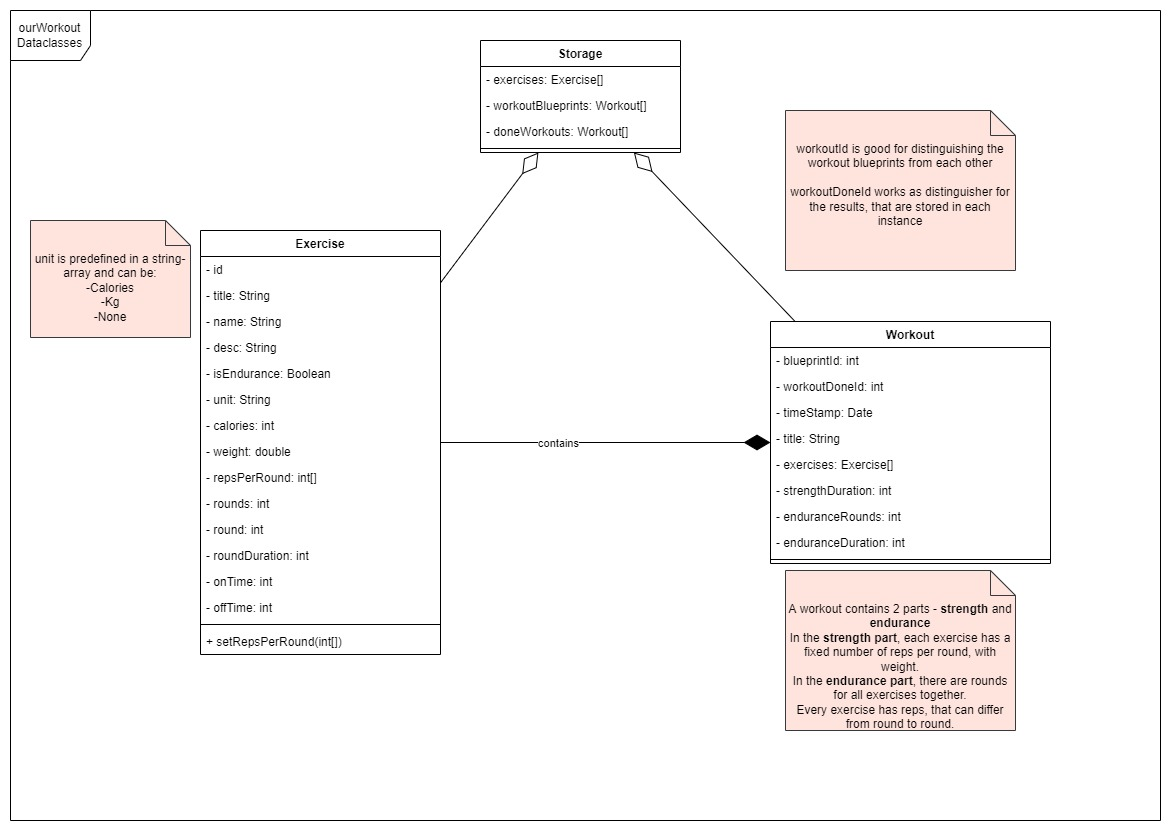
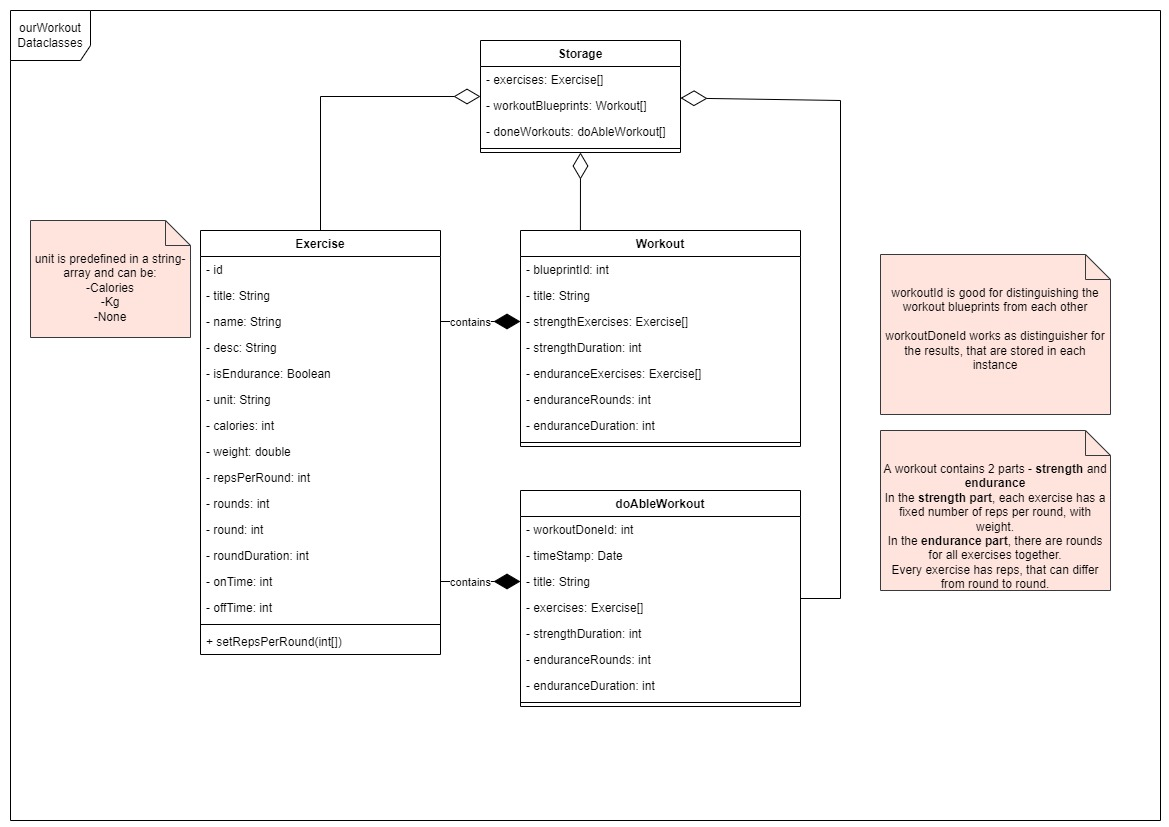
Add feature show done Workouts - List all done workouts - Show single done workout without changing values - Add endurance round number editing in workout management - Some minor fixes

diff --git a/app/src/main/java/org/vollol/ourworkout/adapters/ExerciseAdapter.kt b/app/src/main/java/org/vollol/ourworkout/adapters/ExerciseAdapter.kt
@@ -92,7 +92,7 @@ class ExerciseSpinnerAdapter(context: Context, exercises: List<Exercise>) : Arra
 
 
 //For implementation have a  look at https://www.youtube.com/watch?v=xlonlt5fAzg
-class ExerciseViewPagerAdapter(var exercises: List<Exercise>, var units: Array<String>) :
+class ExerciseViewPagerAdapter(var exercises: List<Exercise>, var units: Array<String>, var editable: Boolean) :
     RecyclerView.Adapter<ExerciseViewPagerAdapter.Pager2ViewHolder>() {
 
     override fun onCreateViewHolder(parent: ViewGroup, viewType: Int): Pager2ViewHolder{
@@ -103,7 +103,7 @@ class ExerciseViewPagerAdapter(var exercises: List<Exercise>, var units: Array<S
     }
 
     override fun onBindViewHolder(holder: Pager2ViewHolder, position: Int) {
-        holder.bind(exercises[holder.adapterPosition])
+        holder.bind(exercises[holder.adapterPosition], editable)
     }
 
     override fun getItemCount() : Int{
@@ -113,15 +113,21 @@ class ExerciseViewPagerAdapter(var exercises: List<Exercise>, var units: Array<S
     inner class Pager2ViewHolder(private val binding: ExercisePageBinding) :
         RecyclerView.ViewHolder(binding.root){
 
-        fun bind(exercise: Exercise) {
+        fun bind(exercise: Exercise, editable: Boolean) {
             //Info text
             binding.exerciseTitle.text = exercise.title
             binding.exerciseDesc.text = exercise.desc
             binding.exerciseName.text = exercise.name
 
-            //layoutRounds
-            binding.editRoundNumber.setOnClickListener(){
-                exercise.rounds = binding.editRoundNumber.text.toString().toInt()
+            /********************layoutRounds********************/
+            if(editable) {
+                binding.editRoundNumber.isEnabled = true
+                binding.editRoundNumber.setOnClickListener() {
+                    exercise.rounds = binding.editRoundNumber.text.toString().toInt()
+                }
+            }
+            else{
+                binding.editRoundNumber.isEnabled = false
             }
 
             if(exercise.isEndurance){
@@ -134,9 +140,15 @@ class ExerciseViewPagerAdapter(var exercises: List<Exercise>, var units: Array<S
                 binding.editRoundNumber.setText(exercise.rounds.toString())
             }
 
-            //if unit is calories Calories -> no repetitions needed
-            binding.editRepetitionNumber.setOnClickListener(){
-                exercise.repsPerRound = binding.editRepetitionNumber.text.toString().toInt()
+            /********************layoutRepetitions********************/
+            if(editable) {
+                binding.editRepetitionNumber.isEnabled = true
+                binding.editRepetitionNumber.setOnClickListener() {
+                    exercise.repsPerRound = binding.editRepetitionNumber.text.toString().toInt()
+                }
+            }
+            else{
+                binding.editRepetitionNumber.isEnabled = false
             }
 
             if(exercise.unit == units[0]){
@@ -144,44 +156,75 @@ class ExerciseViewPagerAdapter(var exercises: List<Exercise>, var units: Array<S
             }
             else{
                 binding.layoutRepetitions.visibility = View.VISIBLE
-                //layoutRepetitions
-                binding.layoutRepetitions.visibility = View.VISIBLE
                 binding.editRepetitionNumber.setText(exercise.repsPerRound.toString())
             }
 
-            //layoutOntime, layoutOffTime, layoutRoundDuration
-            binding.editOnTimeNumber.setOnClickListener(){
-                exercise.onTime = binding.editOnTimeNumber.text.toString().toInt()
+            /********************layoutOnTime********************/
+            if(editable) {
+                binding.editOnTimeNumber.isEnabled = true
+                binding.editOnTimeNumber.setOnClickListener(){
+                    exercise.onTime = binding.editOnTimeNumber.text.toString().toInt()
+                }
+            }
+            else{
+                binding.editOnTimeNumber.isEnabled = false
             }
 
-            binding.editOffTimeNumber.setOnClickListener(){
-                exercise.offTime = binding.editOffTimeNumber.text.toString().toInt()
-            }
-
-            binding.editRoundDurationNumber.setOnClickListener(){
-                exercise.roundDuration = binding.editRoundDurationNumber.text.toString().toInt()
-            }
-
-            if(exercise.isEndurance){
+            if(exercise.isEndurance) {
                 binding.layoutOnTime.visibility = View.INVISIBLE
-                binding.layoutOffTime.visibility = View.INVISIBLE
-                binding.layoutRoundDuration.visibility = View.INVISIBLE
             }
             else{
                 binding.layoutOnTime.visibility = View.VISIBLE
-                binding.layoutOffTime.visibility = View.VISIBLE
-                binding.layoutRoundDuration.visibility = View.VISIBLE
-                //layoutOnTime
                 binding.editOnTimeNumber.setText(exercise.onTime.toString())
-                //layoutOffTime
+            }
+
+            /********************layoutOffTime********************/
+            if(editable) {
+                binding.editOffTimeNumber.isEnabled = true
+                binding.editOffTimeNumber.setOnClickListener(){
+                    exercise.offTime = binding.editOffTimeNumber.text.toString().toInt()
+                }
+            }
+            else{
+                binding.editOffTimeNumber.isEnabled = false
+            }
+
+            if(exercise.isEndurance) {
+                binding.layoutOffTime.visibility = View.INVISIBLE
+            }
+            else{
+                binding.layoutOffTime.visibility = View.VISIBLE
                 binding.editOffTimeNumber.setText(exercise.offTime.toString())
-                //layoutRoundDuration
+            }
+
+            /********************layoutRoundDuration********************/
+            if(editable) {
+                binding.editRoundDurationNumber.isEnabled = true
+                binding.editRoundDurationNumber.setOnClickListener(){
+                    exercise.roundDuration = binding.editRoundDurationNumber.text.toString().toInt()
+                }
+            }
+            else{
+                binding.editRoundDurationNumber.isEnabled = false
+            }
+
+            if(exercise.isEndurance) {
+                binding.layoutRoundDuration.visibility = View.INVISIBLE
+            }
+            else{
+                binding.layoutRoundDuration.visibility = View.VISIBLE
                 binding.editRoundDurationNumber.setText(exercise.roundDuration.toString())
             }
 
-            //layoutUnit
-            binding.editUnitNumber.setOnClickListener(){
-                exercise.unitVal = binding.editUnitNumber.text.toString().toDouble()
+            /********************layoutUnit********************/
+            if(editable) {
+                binding.editUnitNumber.isEnabled = true
+                binding.editUnitNumber.setOnClickListener() {
+                    exercise.unitVal = binding.editUnitNumber.text.toString().toDouble()
+                }
+            }
+            else{
+                binding.editUnitNumber.isEnabled = false
             }
 
             if (exercise.unit == units[2]){

diff --git a/app/src/main/java/org/vollol/ourworkout/adapters/WorkoutAdapter.kt b/app/src/main/java/org/vollol/ourworkout/adapters/WorkoutAdapter.kt
@@ -3,7 +3,9 @@ package org.vollol.ourworkout.adapters
 import android.view.LayoutInflater
 import android.view.ViewGroup
 import androidx.recyclerview.widget.RecyclerView
+import org.vollol.ourworkout.databinding.CardDoneWorkoutBinding
 import org.vollol.ourworkout.databinding.CardWorkoutBinding
+import org.vollol.ourworkout.models.DoAbleWorkout
 import org.vollol.ourworkout.models.Workout
 
 /*
@@ -12,6 +14,10 @@ and allow us to abstract the response to this event.
  */
 interface WorkoutListener {
     fun onWorkoutClick(workout: Workout, position: Int)
+}
+
+interface DoAbleWorkoutListener {
+    fun onWorkoutClick(workout: DoAbleWorkout, position: Int)
 }
 
 class WorkoutAdapter constructor(private var workouts: List<Workout>,
@@ -36,6 +42,46 @@ class WorkoutAdapter constructor(private var workouts: List<Workout>,
 
         fun bind(workout: Workout, listener: WorkoutListener){
             binding.workoutTitle.text = workout.title
+            binding.root.setOnClickListener {listener.onWorkoutClick(workout, adapterPosition)}
+        }
+    }
+}
+
+
+class DoAbleWorkoutAdapter constructor(private var workouts: List<DoAbleWorkout>,
+                                 private val listener: DoAbleWorkoutListener):
+    RecyclerView.Adapter<DoAbleWorkoutAdapter.MainHolder>() {
+
+    override fun onCreateViewHolder(parent: ViewGroup, viewType: Int): MainHolder{
+        val binding = CardDoneWorkoutBinding
+            .inflate(LayoutInflater.from(parent.context), parent, false)
+        return MainHolder(binding)
+    }
+
+    override fun onBindViewHolder(holder: MainHolder, position: Int) {
+        val workout = workouts[holder.adapterPosition]
+        holder.bind(workout, listener)
+    }
+
+    override fun getItemCount(): Int = workouts.size
+
+    class MainHolder(private val binding: CardDoneWorkoutBinding):
+        RecyclerView.ViewHolder(binding.root){
+
+        fun bind(workout: DoAbleWorkout, listener: DoAbleWorkoutListener){
+            binding.workoutTitle.text = workout.title
+            binding.workoutDate.text = buildString {
+                append(workout.timeStamp.dayOfMonth)
+                append(".")
+                append(workout.timeStamp.month)
+                append(".")
+                append(workout.timeStamp.year)
+            }
+            binding.workoutTime.text = buildString {
+                append(workout.timeStamp.hour.toString())
+                append(":")
+                append(workout.timeStamp.minute.toString())
+            }
             binding.root.setOnClickListener {listener.onWorkoutClick(workout, adapterPosition)}
         }
     }

diff --git a/app/src/main/java/org/vollol/ourworkout/activities/ShowDoneWorkoutsActivity.kt b/app/src/main/java/org/vollol/ourworkout/activities/ShowDoneWorkoutsActivity.kt
@@ -1,12 +1,64 @@
 package org.vollol.ourworkout.activities
 
+import android.app.Activity
+import android.content.Intent
 import androidx.appcompat.app.AppCompatActivity
 import android.os.Bundle
-import org.vollol.ourworkout.R
+import androidx.activity.result.contract.ActivityResultContracts
+import androidx.recyclerview.widget.LinearLayoutManager
 
-class ShowDoneWorkoutsActivity : AppCompatActivity() {
+import org.vollol.ourworkout.adapters.DoAbleWorkoutAdapter
+import org.vollol.ourworkout.adapters.DoAbleWorkoutListener
+import org.vollol.ourworkout.databinding.ActivityShowDoneWorkoutsBinding
+import org.vollol.ourworkout.main.MainApp
+import org.vollol.ourworkout.models.DoAbleWorkout
+import org.vollol.ourworkout.models.Workout
+
+class ShowDoneWorkoutsActivity : AppCompatActivity(), DoAbleWorkoutListener {
+    private lateinit var binding: ActivityShowDoneWorkoutsBinding
+
+    lateinit var app: MainApp
+    private var position: Int = 0
+
     override fun onCreate(savedInstanceState: Bundle?) {
         super.onCreate(savedInstanceState)
-        setContentView(R.layout.activity_show_done_workouts)
+
+        //inflate layout
+        binding = ActivityShowDoneWorkoutsBinding.inflate(layoutInflater)
+        setContentView(binding.root)
+
+        //including the menu-toolbar
+        binding.toolbar.title = title
+        setSupportActionBar(binding.toolbar)
+
+        //refer to MainApp object
+        app = application as MainApp
+
+        //include recyclerview
+        val layoutManager = LinearLayoutManager(this)
+        binding.recyclerViewDoWorkout.layoutManager = layoutManager
+        binding.recyclerViewDoWorkout.adapter = DoAbleWorkoutAdapter(app.doneWorkouts.findAll(), this)
     }
+
+    /******************Recycler view*******************/
+
+    override fun onWorkoutClick(workout: DoAbleWorkout, pos:Int) {
+        val launcherIntent = Intent(this, WorkoutActivity::class.java)
+        launcherIntent.putExtra("workout_show", workout)
+        position = pos
+        getClickResult.launch(launcherIntent)
+    }
+
+    private val getClickResult = registerForActivityResult(
+        ActivityResultContracts.StartActivityForResult()
+    ) {
+        if(it.resultCode == Activity.RESULT_OK) {
+            (binding.recyclerViewDoWorkout.adapter)?.
+            notifyItemRangeChanged(0, app.workouts.findAll().size)
+        }
+        else {//deleting
+            if(it.resultCode==99) (binding.recyclerViewDoWorkout.adapter)?.notifyItemRemoved(position)
+        }
+    }
+
 }

diff --git a/app/src/main/java/org/vollol/ourworkout/activities/ManageWorkoutActivity.kt b/app/src/main/java/org/vollol/ourworkout/activities/ManageWorkoutActivity.kt
@@ -54,7 +54,7 @@ class ManageWorkoutActivity : AppCompatActivity(){
             workout = intent.extras?.getParcelable("workout_edit")!!
             //Set already stored values in text-fields
             binding.workoutTitle.setText(workout.title)
-            //todo - list choosen exercises
+            binding.enduranceRounds.setText(workout.enduranceRounds.toString())
         }
 
         /***********************************recycler views***********************************/
@@ -139,10 +139,14 @@ class ManageWorkoutActivity : AppCompatActivity(){
             }
         }
 
+
         binding.btnSave.setOnClickListener() {
             workout.title = binding.workoutTitle.text.toString()
+            if(binding.enduranceRounds.text.isNotEmpty()) {
+                workout.enduranceRounds = binding.enduranceRounds.text.toString().toInt()
+            }
 
-            if (workout.title.isNotEmpty()) {
+            if (workout.title.isNotEmpty() and (workout.enduranceRounds != 0)) {
                 if (edit) {
                     app.workouts.update(workout.copy())
                 }
@@ -158,7 +162,7 @@ class ManageWorkoutActivity : AppCompatActivity(){
 
             else{
                 Snackbar
-                    .make(it,R.string.manage_workout_activity_snack_infoTitelMissing, Snackbar.LENGTH_LONG)
+                    .make(it,R.string.manage_workout_activity_snack_infoSomeMissing, Snackbar.LENGTH_LONG)
                     .show()
             }
         }

diff --git a/app/src/main/java/org/vollol/ourworkout/main/MainApp.kt b/app/src/main/java/org/vollol/ourworkout/main/MainApp.kt
@@ -24,9 +24,9 @@ class MainApp : Application() {
         workouts = WorkoutJSONStore(applicationContext)
         doneWorkouts = DoAbleWorkoutJSONStore(applicationContext)
 
-        val units = resources.getStringArray(R.array.exercise_activity_units)
 
-        //generate data for debugging
+        /*generate data for debugging
+        val units = resources.getStringArray(R.array.exercise_activity_units)
         exercises.create(Exercise(0,"DBL DB Snatch","Snatches","Take a dumbbell and lift it above your head", unit = units[1]))
         exercises.create(Exercise(0,"SB Carry","Sandbag Carry","Carry a Sandbag round by round", unit = units[1]))
         exercises.create((Exercise(0,"Standups", "Standups", "Lay down and stand up", unit = units[2])))
@@ -34,6 +34,8 @@ class MainApp : Application() {
         var strenEx : MutableList<Exercise> = exercises.findAll().subList(0,2).toMutableList()
         val durEx : MutableList<Exercise> = exercises.findAll().subList(2,4).toMutableList()
         workouts.create(Workout(0,  "Workout", strenEx, 0, durEx, 3))
+        */
+
 
 
         i("ourWorkout started")

diff --git a/app/src/main/java/org/vollol/ourworkout/activities/WorkoutActivity.kt b/app/src/main/java/org/vollol/ourworkout/activities/WorkoutActivity.kt
@@ -64,13 +64,13 @@ class WorkoutActivity : AppCompatActivity() {
 
         else if(intent.hasExtra("workout_show")){ //type is DoAbleWorkout
             doWorkout = false
-            workout = intent.extras?.getParcelable("workout_show")!!
+            workoutToDo = intent.extras?.getParcelable("workout_show")!!
         }
 
         i("Workoutactivity started with workout: ${workout.title}")
 
 
-        val adapter = ExerciseViewPagerAdapter(workoutToDo.exercises, resources.getStringArray(R.array.exercise_activity_units))
+        val adapter = ExerciseViewPagerAdapter(workoutToDo.exercises, resources.getStringArray(R.array.exercise_activity_units), doWorkout)
         binding.viewPager2.adapter = adapter
 
         binding.viewPager2.orientation = ViewPager2.ORIENTATION_HORIZONTAL
